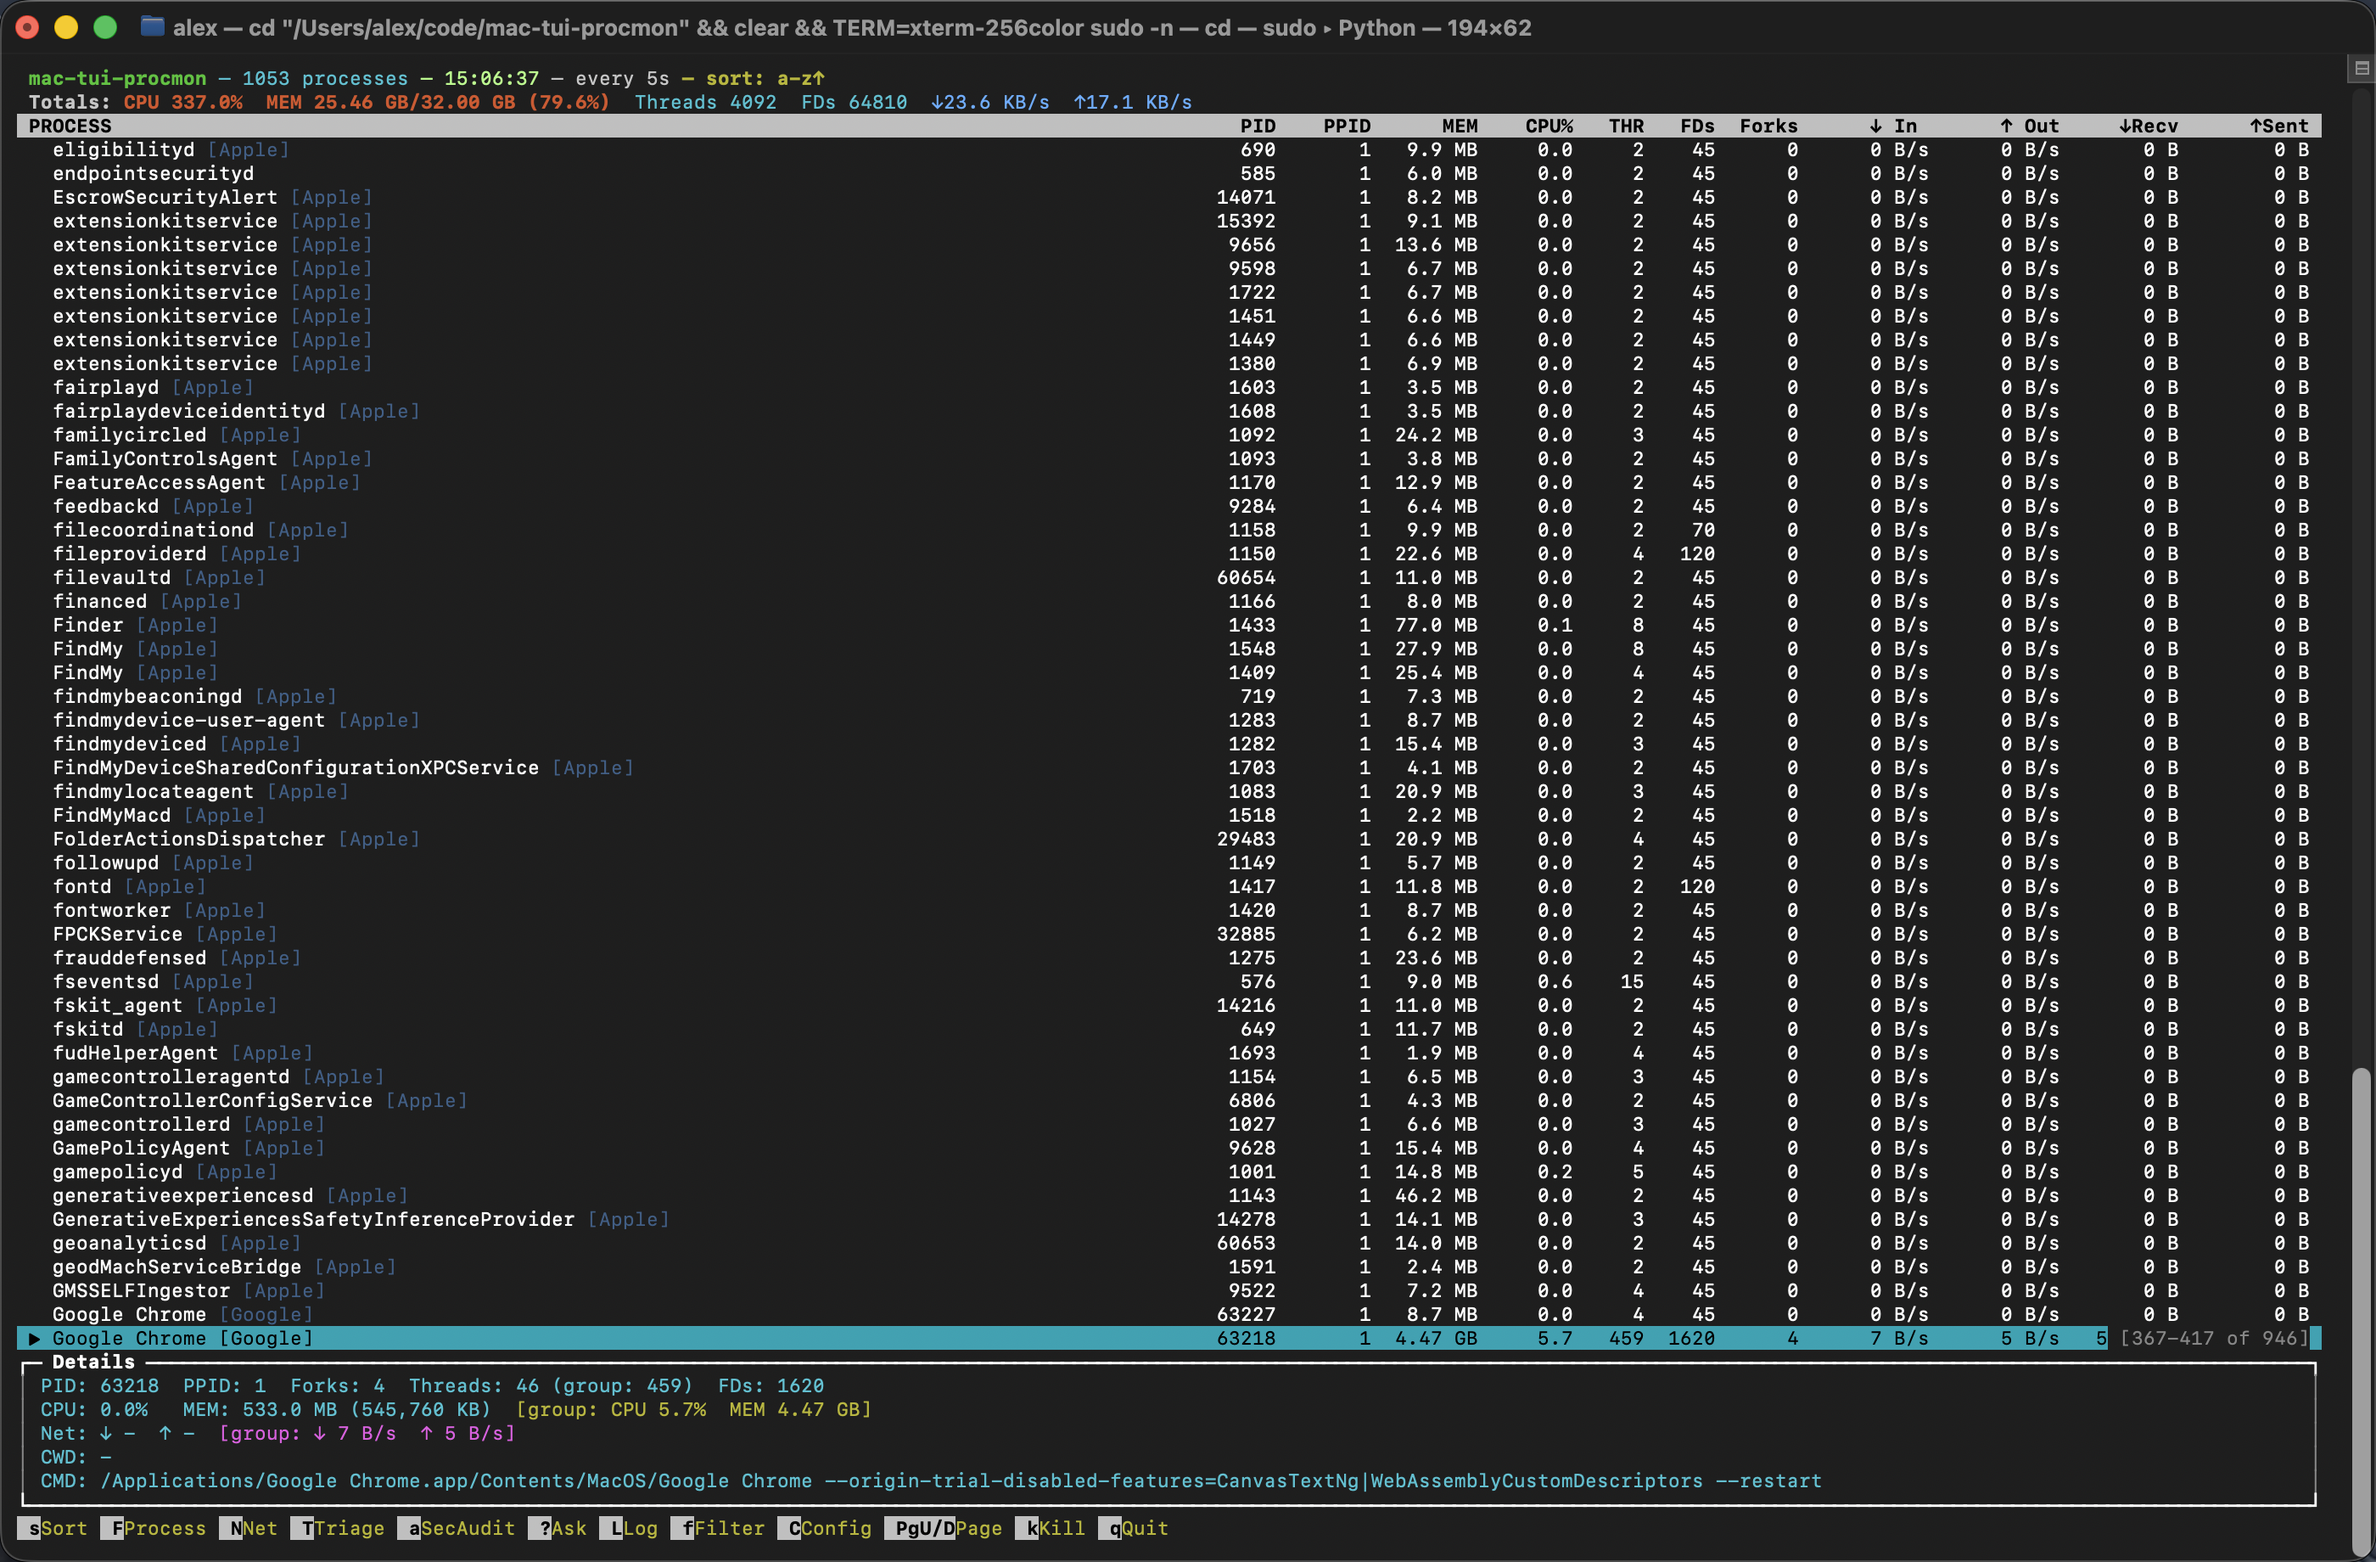
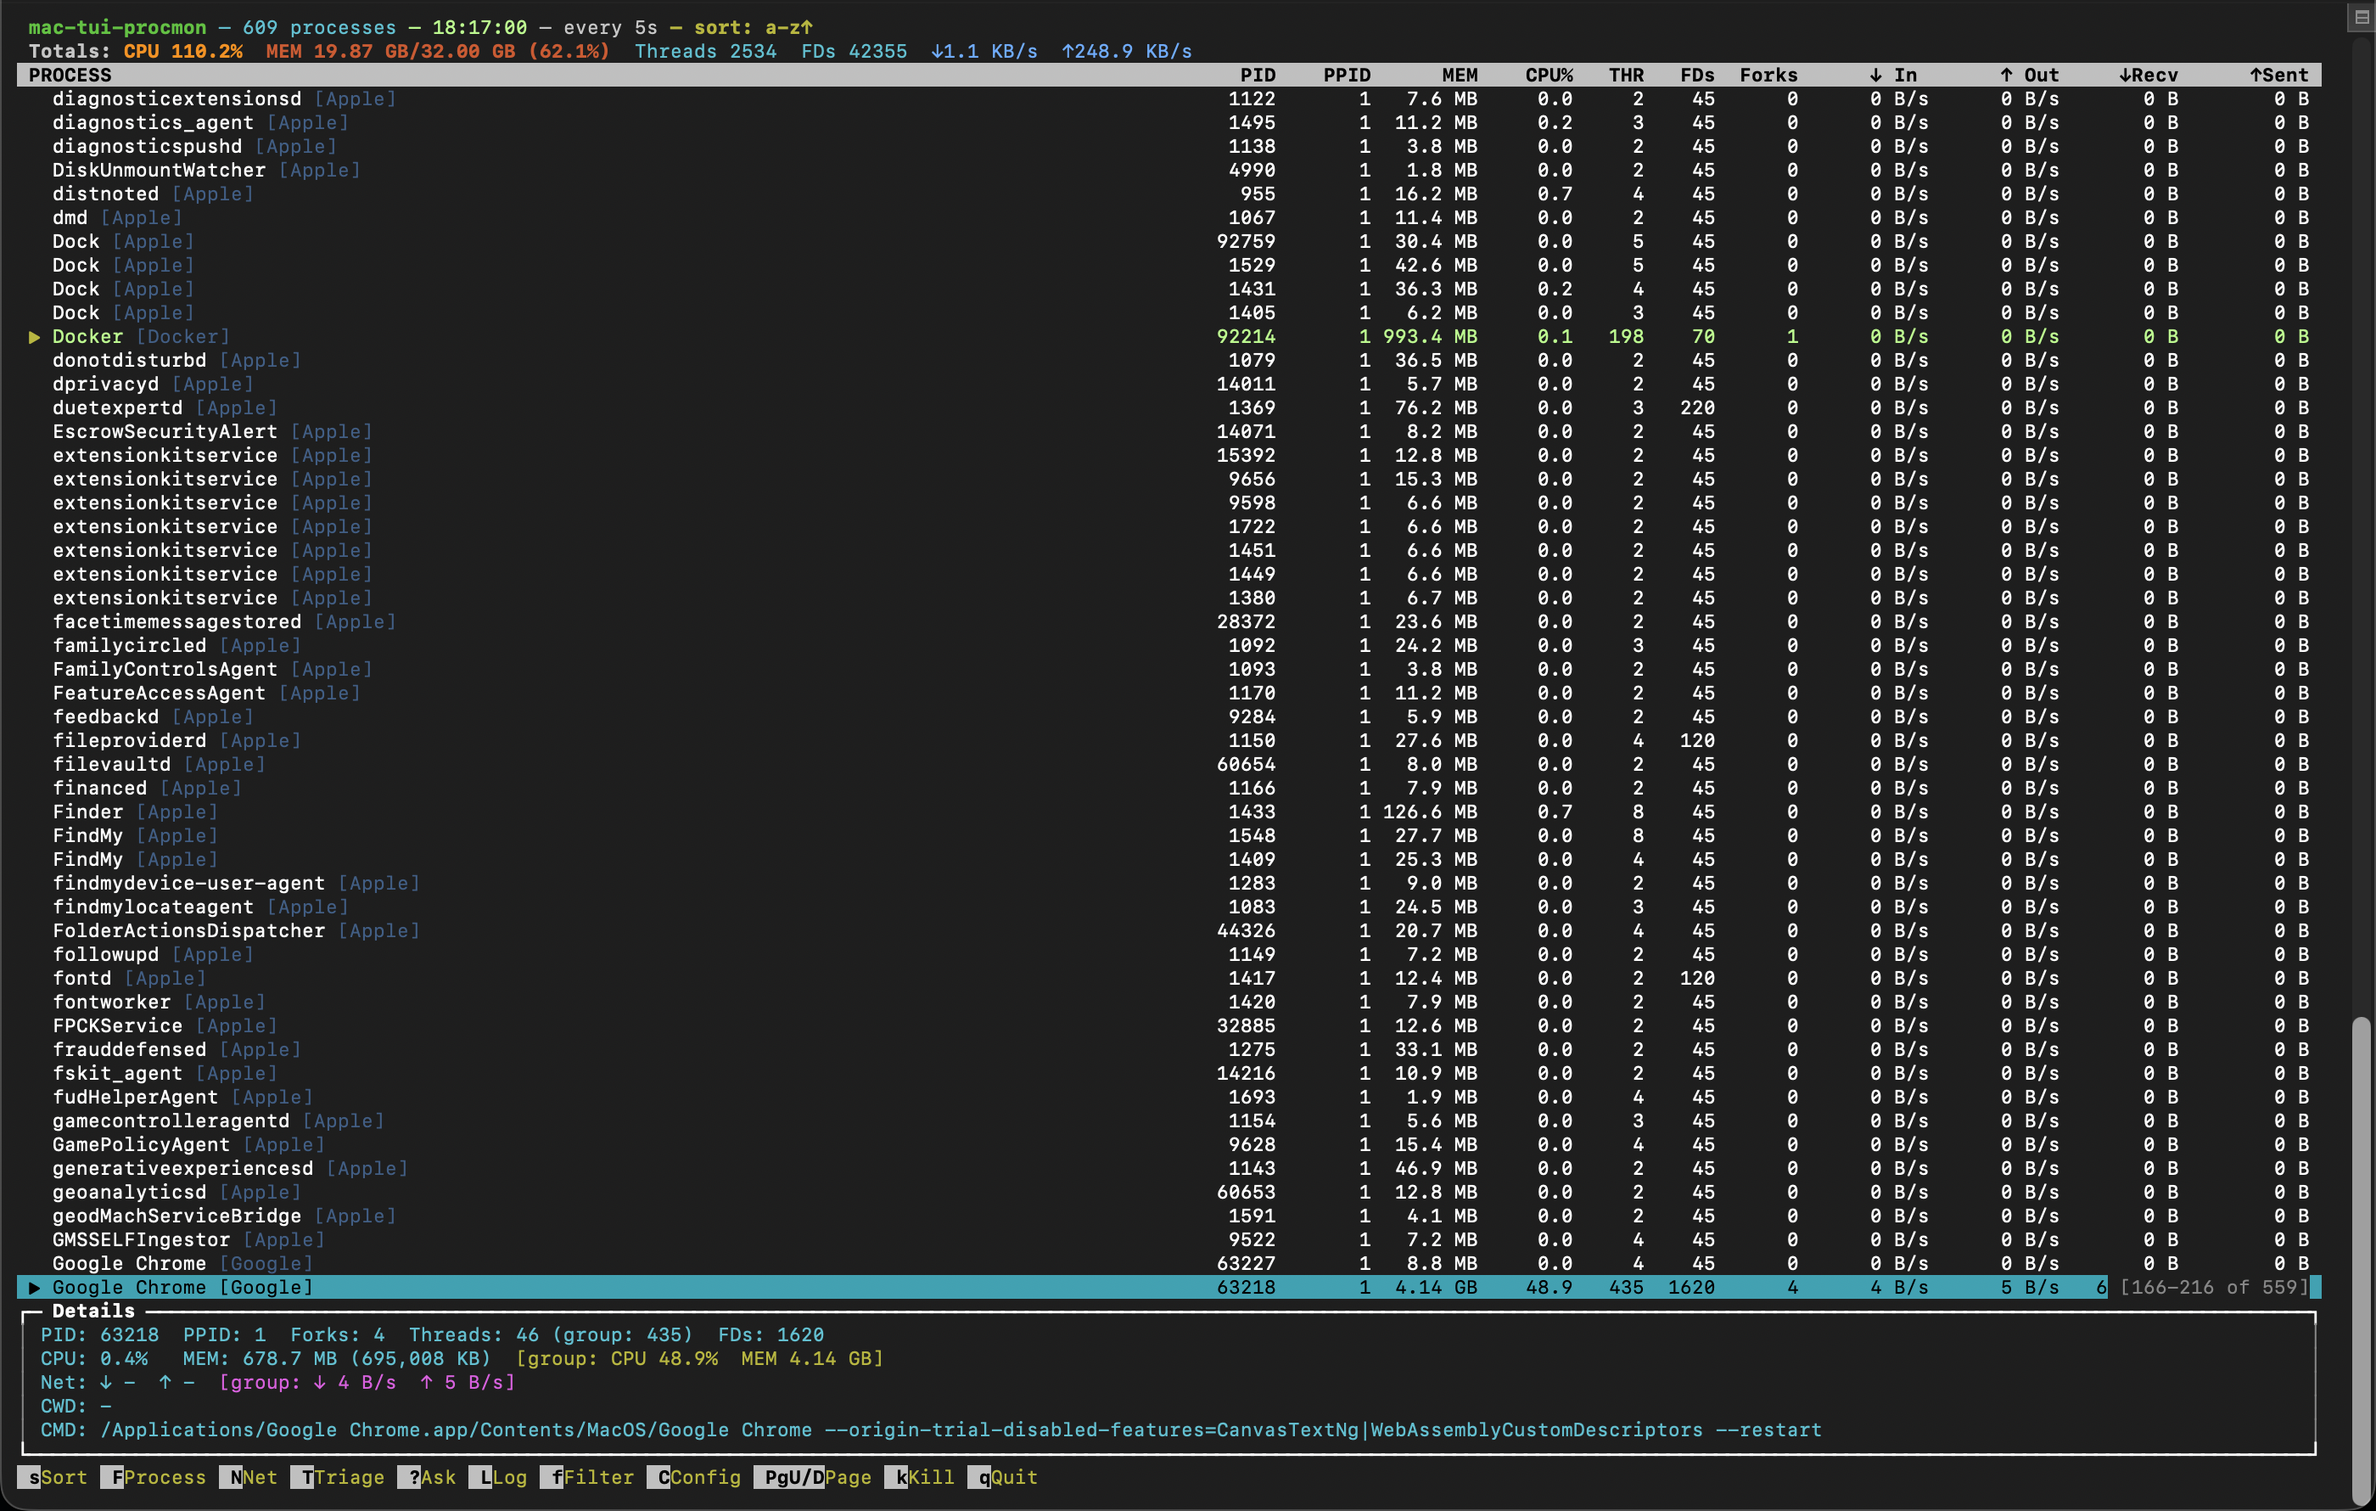
Re-capture screenshots cropping out title bar; drop leak-prone PNGs
The Terminal title bar in every existing screenshot read roughly
`mac-tui-procmon — <user>@<host> — ~/code/<repo> — -zsh — 194×62` —
which leaks both username and hostname into public docs. Setting
`set custom title` on the Terminal tab only rewrites one of those
segments; the rest stay. Switch the capture script to offset its
screencapture region 30pt below the window top so the entire title
bar is cropped out.

Other capture-script fixes:
- Inspect/triage waits bumped (12s → 28s, 16s → 32s) — the previous
  values caught the panels mid-load ("Collecting forensic
  artifacts…" / "Running deep process triage…") rather than the
  populated state. Verified the new screenshots show real content.
- Add an `ask-claude.png` capture (press `?`, snap during the
  thinking marker) so the README/Screenshots page stops referencing
  a stale PNG.
- The network-connections panel is no longer captured. The live
  view exposes per-connection geolocation tags
  (e.g. `[Athens/GR]`, `[San Francisco/CA]`) sourced from the
  remote endpoint's CDN edge — those edges correlate with the
  user's country, so the screenshot is a country leak. The feature
  still works in the TUI; users see it themselves.

Deleted PNGs (had old title-bar leak and either covered now-removed
features or were redundant):
- network-view.png — geolocation leak (above)
- live-event-stream.png — wasn't refreshed by capture script
- config-view.png — duplicate of alert-config.png
[…]

Changed region(s): [[0.0, 0.0, 1.0, 0.9888], [0.9943, 0.9888, 1.0, 1.0]]

diff --git a/docs/wiki/Screenshots.md b/docs/wiki/Screenshots.md
@@ -8,21 +8,23 @@ chat-overlay variant of the same surface.
 |-------------------------------|----------------------------------------------------|
 | `general-view.png`            | Main process list (default view)                   |
 | `process-filter.png`          | Filter dialog populated                            |
-| `process-group-view.png`      | Tree grouped by parent process                     |
-| `vendor-grouping.png`         | Same list grouped by code-sign vendor              |
+| `vendor-grouping.png`         | Process list grouped by code-sign vendor           |
 | `dynamic-sort.png`            | Dynamic-sort indicator (alert exceeders on top)    |
 | `alpha-sort.png`              | Alphabetical sort                                  |
 | `sort-dialog.png`             | Sort dialog (`s` key)                              |
-| `network-view.png`            | Network connections panel for the selected process |
 | `forensic-menu.png`           | Process Investigation menu                         |
 | `telemetry-menu.png`          | Live Telemetry menu (`E`)                          |
 | `inspect-view.png`            | Inspect mode (codesign + YARA + trust profile)     |
 | `triage-view.png`             | Deep process triage (`T`)                          |
-| `process-entitlements.png`    | Process entitlements / triage detail               |
 | `alert-config.png`            | Alert thresholds dialog (`Shift+C`)                |
-| `config-view.png`             | Alert config — alternate view                      |
 | `log-overlay.png`             | Debug log overlay (`L`)                            |
 | `ask-claude.png`              | AI chat overlay grounded in current screen         |
+
+The network connections panel is intentionally not shipped as a PNG:
+the live view shows remote-endpoint geolocation tags (e.g.
+`[Athens/GR]`, `[San Francisco/CA]`) that correlate with the user's
+country via CDN edge proximity. The feature still exists; users see
+it in their own terminal.
 
 ## Capturing new screenshots
 
@@ -42,3 +44,10 @@ scripts/capture-screenshots.sh --root  # via the sudo wrapper
 The script launches Terminal.app at a known geometry, drives the
 TUI through every screen via `osascript` keystrokes, and writes one
 PNG per surface into `screenshots/` using `screencapture -R`.
+
+The capture region is offset to **crop out the Terminal title bar**.
+macOS renders user@host, working dir, and dimensions there
+(e.g. `mac-tui-procmon — alex@laptop — ~/code/... — 194×62`), which
+would leak both the username and the hostname into public docs.
+`set custom title` only rewrites one segment; cropping below the
+title bar removes all of them.

diff --git a/README.md b/README.md
@@ -93,8 +93,6 @@ single row showing the member count
 The default tree groups children under their parent. `←` collapses,
 `→` expands a subtree.
 
-![Process Group View](screenshots/process-group-view.png)
-
 ### Sort Dialog
 
 Press `s` for a menu of every sort mode in case you can't remember
@@ -164,8 +162,6 @@ The same view shows entitlement abuse signals when present — for
 example, dangerous combos on a non-Apple binary or runtime paths
 under user-writable trees.
 
-![Process Entitlements](screenshots/process-entitlements.png)
-
 ### Deep Process Triage
 
 `T` runs a deeper triage pass: inspect artifacts plus an osquery
@@ -189,8 +185,6 @@ endpoint owned by the selected process via `lsof`/`nettop`, with:
 - GeoIP city / country and abbreviated org tag (`[AWS]`,
   `[Cloudflare]`, …)
 - Per-flow cumulative bytes in/out
-
-![Network View](screenshots/network-view.png)
 
 Press `k` on a highlighted row to kill **just that connection**
 without killing the process. Press `N` again or `Esc` to close.
@@ -219,8 +213,6 @@ MAC_TUI_PROCMON_ES_SELECT_PREFIXES=/usr/sbin/sshd:/usr/bin/sudo \
 ```
 
 The active scope shows in the timeline header.
-
-![Security Timeline](screenshots/live-event-stream.png)
 
 `c` clears the buffer. **First Esc** stops the stream and triggers
 an LLM summary of everything captured. **Second Esc** closes the
@@ -308,8 +300,6 @@ persist to `~/.mac-tui-procmon.json`.
 The alert counter resets only after every value stays below
 threshold for a full interval — that keeps an oscillating value
 from re-arming the audible alert forever.
-
-![Config View](screenshots/config-view.png)
 
 Dynamic sort (`d`) uses these same thresholds: anything currently
 exceeding floats above everything else.
